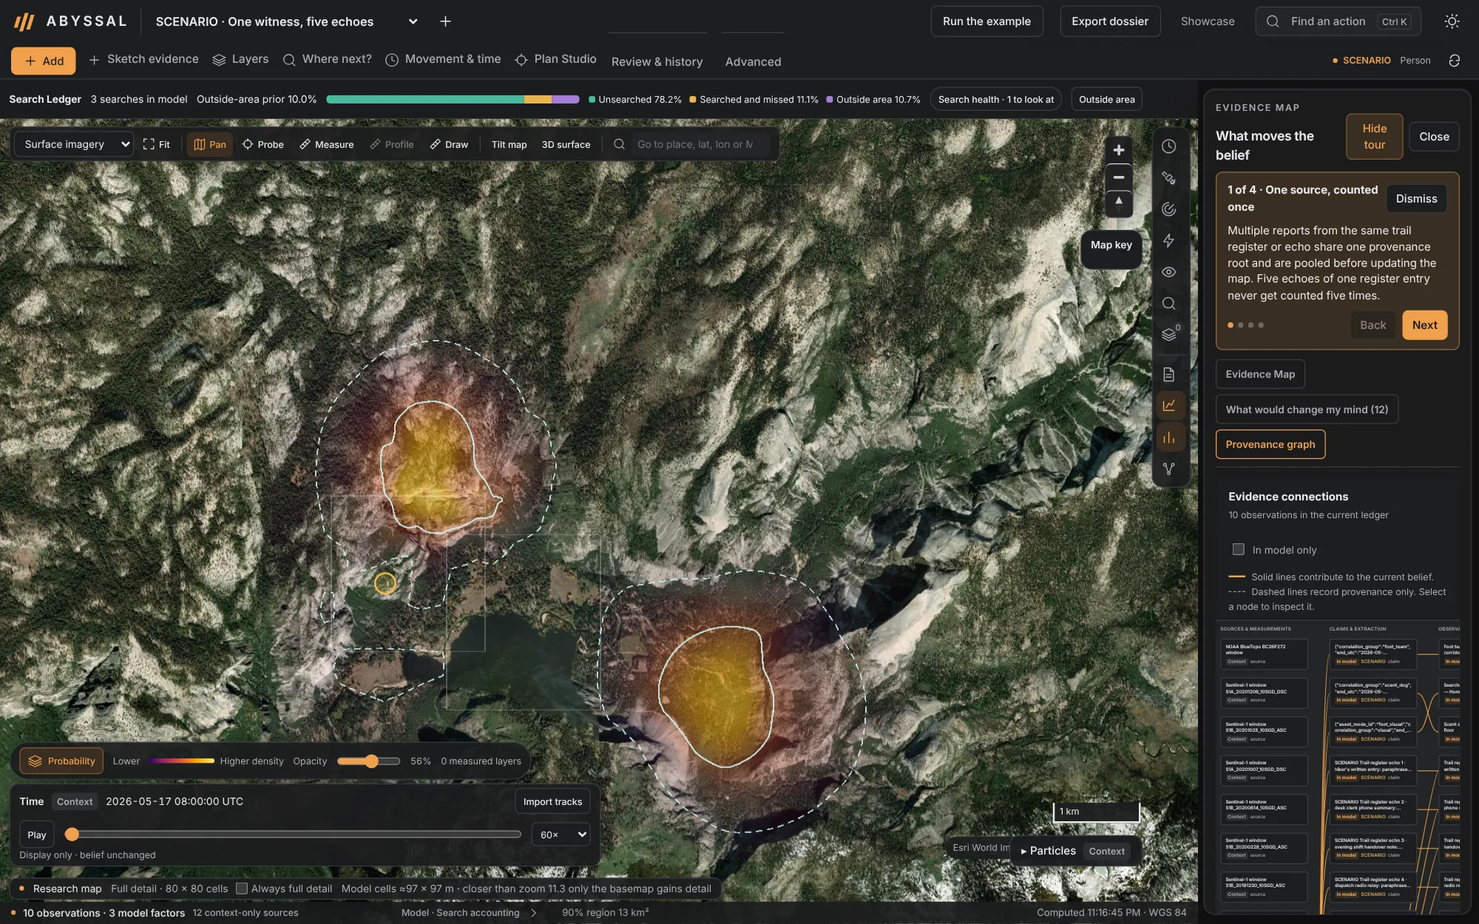
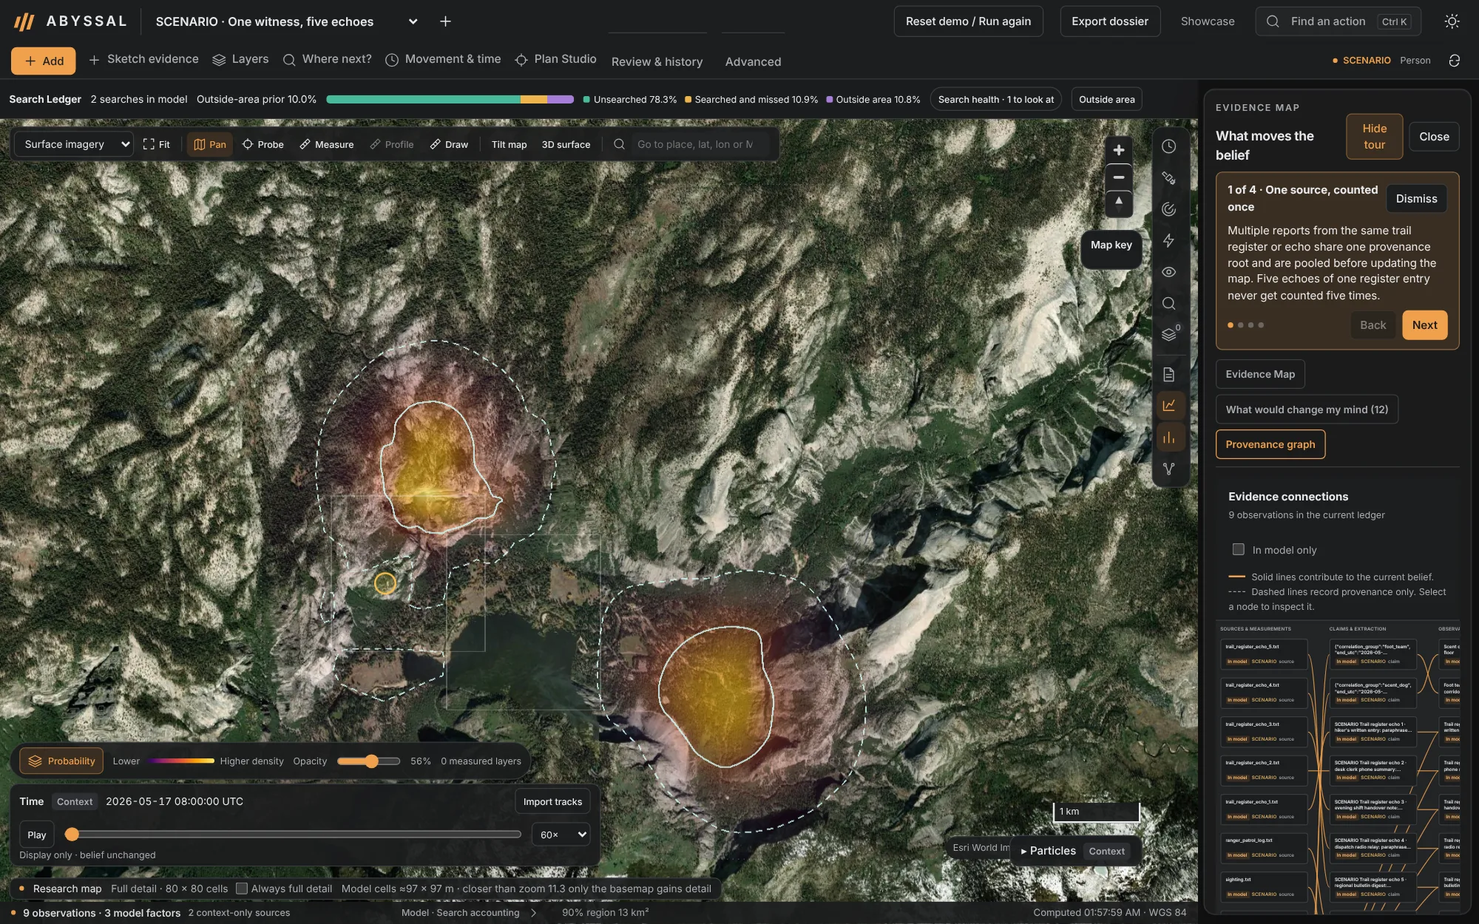
ABYSSAL showcase: proven on real data; new app home page; screenshots from a clean case store
- Hub: a "Proven on real data" section with the five measured results and the app's evidence page;
  the maturity ladder's real-data rung now reports them. Engines page: an "On real data" table.
- Home: the ABYSSAL card's evidence line says what was measured on real data.
- Screenshots: the new app home page (dark and light), the evidence page, and every workspace shot
  recaptured from a clean case store, so the land demo's archive and fusion graph no longer show
  radar and bathymetry windows fetched while testing marine engines. The sketch-evidence crop is now
  over real imagery.

Claude-Session: https://claude.ai/code/session_01MYDVWJmnsMXumzgm4hNe9F

diff --git a/abyssal/index.html b/abyssal/index.html
@@ -38,7 +38,7 @@
       <div class="kicker"><span class="dot"></span><span>A series in nine parts</span><span class="lv">tours · mathematics · physics · essays · 13 interactive labs</span></div>
       <h1>ABYSSAL: honest probability for finding what is lost</h1>
       <p class="dek">A local-first Bayesian workbench for searching for aircraft, ships and people: it keeps a probability map that cannot overclaim, explains every change in bits, says where to look next and what that is worth, and records who decided to trust each piece of evidence.</p>
-      <div class="meta"><span><b>22,155</b> words · <b>13</b> labs you can play with · every figure from the running software</span><span>Rory Millard · November 2026</span></div>
+      <div class="meta"><span><b>22,157</b> words · <b>13</b> labs you can play with · every figure from the running software</span><span>Rory Millard · November 2026</span></div>
       <div class="cta"><a class="btn primary" href="01-a-tour.html">Start with the tour →</a><a class="btn ghost" href="03-the-arithmetic-of-not-finding.html">Straight to the maths</a><a class="btn ghost" href="engines.html">Inside the machine</a><a class="btn ghost" href="#labs">Play with the labs</a></div>
       <figure class="figure-peek reveal"><img src="../assets/abyssal/demo-live.webp" alt="The ABYSSAL workspace over real terrain" fetchpriority="high"></figure>
     </div>
@@ -87,8 +87,24 @@
   <div class="rung ok"><span class="st">Tested</span><div><b>Planning and value</b><p>Optimal allocation against known optima (water-filling under exponential detection), expected value and stopping rules against hand-worked cases.</p></div><a href="05-where-next-and-when-to-stop.html">Part 5 →</a></div>
   <div class="rung ok"><span class="st">Tested</span><div><b>The interface</b><p>Browser journeys that drive the real app and assert exact numbers on screen, so that what you see is what was computed.</p></div><a href="01-a-tour.html">Part 1 →</a></div>
   <div class="rung cal"><span class="st">Calibrated</span><div><b>Fourteen signal engines</b><p>Each one scored against simulated answer keys: detection rate, false alarms per km², interval coverage, with Wilson and Poisson bounds. Simulation proves the mathematics, not a real sensor.</p></div><a href="engines.html#board">Board →</a></div>
-  <div class="rung real"><span class="st">First contact</span><div><b>Real data</b><p>Sentinel-1 radar off San Francisco; eight passes over the Santa Barbara Channel, where exactly two contacts are fixed in every pass, consistent with two oil platforms; the <i>Andrea Doria</i> in NOAA's survey bathymetry. Held-out backtest on AF447.</p></div><a href="engines.html#eng-persist">See it →</a></div>
+  <div class="rung real"><span class="st">Measured on real data</span><div><b>Five engines against independent truth</b><p>Radar wind against 11 NOAA buoys (RMSE 1.7 m/s over 152 passes); ships against real AIS (47 of 51 over 100 m detected); oil platforms against nautical charts (15 of 16, to within 33 m); seabed anomalies against charted wrecks (41 of 85, to within 9 m); and the ARA San Juan rebuilt from public facts. Held-out backtest on AF447.</p></div><a href="#proof">Results →</a></div>
   <div class="rung next"><span class="st">Not yet</span><div><b>A live search</b><p>No real operation has used it. That needs detectors calibrated on real sensors and practitioners on real or replayed cases; until then every probability of detection is labelled an analyst assumption.</p></div><a href="../contact.html">Try it →</a></div>
+</div>
+
+<div class="section-title" id="proof"><h2>Proven on real data</h2><span>the same engine code, scored against something it never saw</span></div>
+<div class="split reveal">
+  <div>
+    <div class="proofs">
+      <div><b>1.7 m/s</b><span>Wind from the radar vs <strong>11 NOAA buoys</strong>, 152 passes (r = 0.91)</span></div>
+      <div><b>47 / 51</b><span>Ships over 100 m found in the radar, checked against <strong>real AIS</strong></span></div>
+      <div><b>15 / 16</b><span>Oil platforms found in every pass, to within <strong>33 m</strong> of the chart</span></div>
+      <div><b>41 / 85</b><span>Charted wrecks found in NOAA bathymetry, to within <strong>9 m</strong></span></div>
+      <div><b>−34%</b><span>ARA San Juan: search area cut by the collapse-depth constraint, <strong>wreck kept</strong></span></div>
+    </div>
+    <p>Every number has receipts: the exact radar windows, buoy files, AIS days and chart records it came from, and a script that re-runs it. The limits are measured too: the ship detector raises too many unexplained echoes on rough seas, and half the charted wrecks are too low or buried to stand out of a 4 m grid.</p>
+    <p><a class="btn primary" href="engines.html#real">Inside the machine: the results →</a></p>
+  </div>
+  <figure class="shot"><img src="../assets/abyssal/evidence-real.webp" alt="ABYSSAL's evidence page: radar wind against buoy wind, and detection rate by ship length against real AIS" loading="lazy"><figcaption><b>The evidence page in the app.</b> Radar wind against buoy wind, one dot per pass, and detection rate by ship length against real AIS.</figcaption></figure>
 </div>
 
 <div class="section-title"><h2>Read it your way</h2><span>four paths through the series</span></div>

diff --git a/_series/index.html b/_series/index.html
@@ -44,8 +44,24 @@
   <div class="rung ok"><span class="st">Tested</span><div><b>Planning and value</b><p>Optimal allocation against known optima (water-filling under exponential detection), expected value and stopping rules against hand-worked cases.</p></div><a href="05-where-next-and-when-to-stop.html">Part 5 →</a></div>
   <div class="rung ok"><span class="st">Tested</span><div><b>The interface</b><p>Browser journeys that drive the real app and assert exact numbers on screen, so that what you see is what was computed.</p></div><a href="01-a-tour.html">Part 1 →</a></div>
   <div class="rung cal"><span class="st">Calibrated</span><div><b>Fourteen signal engines</b><p>Each one scored against simulated answer keys: detection rate, false alarms per km², interval coverage, with Wilson and Poisson bounds. Simulation proves the mathematics, not a real sensor.</p></div><a href="engines.html#board">Board →</a></div>
-  <div class="rung real"><span class="st">First contact</span><div><b>Real data</b><p>Sentinel-1 radar off San Francisco; eight passes over the Santa Barbara Channel, where exactly two contacts are fixed in every pass, consistent with two oil platforms; the <i>Andrea Doria</i> in NOAA's survey bathymetry. Held-out backtest on AF447.</p></div><a href="engines.html#eng-persist">See it →</a></div>
+  <div class="rung real"><span class="st">Measured on real data</span><div><b>Five engines against independent truth</b><p>Radar wind against 11 NOAA buoys (RMSE 1.7 m/s over 152 passes); ships against real AIS (47 of 51 over 100 m detected); oil platforms against nautical charts (15 of 16, to within 33 m); seabed anomalies against charted wrecks (41 of 85, to within 9 m); and the ARA San Juan rebuilt from public facts. Held-out backtest on AF447.</p></div><a href="#proof">Results →</a></div>
   <div class="rung next"><span class="st">Not yet</span><div><b>A live search</b><p>No real operation has used it. That needs detectors calibrated on real sensors and practitioners on real or replayed cases; until then every probability of detection is labelled an analyst assumption.</p></div><a href="../contact.html">Try it →</a></div>
+</div>
+
+<div class="section-title" id="proof"><h2>Proven on real data</h2><span>the same engine code, scored against something it never saw</span></div>
+<div class="split reveal">
+  <div>
+    <div class="proofs">
+      <div><b>1.7 m/s</b><span>Wind from the radar vs <strong>11 NOAA buoys</strong>, 152 passes (r = 0.91)</span></div>
+      <div><b>47 / 51</b><span>Ships over 100 m found in the radar, checked against <strong>real AIS</strong></span></div>
+      <div><b>15 / 16</b><span>Oil platforms found in every pass, to within <strong>33 m</strong> of the chart</span></div>
+      <div><b>41 / 85</b><span>Charted wrecks found in NOAA bathymetry, to within <strong>9 m</strong></span></div>
+      <div><b>−34%</b><span>ARA San Juan: search area cut by the collapse-depth constraint, <strong>wreck kept</strong></span></div>
+    </div>
+    <p>Every number has receipts: the exact radar windows, buoy files, AIS days and chart records it came from, and a script that re-runs it. The limits are measured too: the ship detector raises too many unexplained echoes on rough seas, and half the charted wrecks are too low or buried to stand out of a 4 m grid.</p>
+    <p><a class="btn primary" href="engines.html#real">Inside the machine: the results →</a></p>
+  </div>
+  <figure class="shot"><img src="../assets/abyssal/evidence-real.webp" alt="ABYSSAL's evidence page: radar wind against buoy wind, and detection rate by ship length against real AIS" loading="lazy"><figcaption><b>The evidence page in the app.</b> Radar wind against buoy wind, one dot per pass, and detection rate by ship length against real AIS.</figcaption></figure>
 </div>
 
 <div class="section-title"><h2>Read it your way</h2><span>four paths through the series</span></div>

diff --git a/index.html b/index.html
@@ -76,7 +76,7 @@
       <div><b data-count="14">14</b><small>physics-based signal engines in ABYSSAL</small></div>
       <div><b data-count="9">9</b><small>essays in the ABYSSAL series</small></div>
       <div><b data-count="13">13</b><small>interactive maths labs, running in the page</small></div>
-      <div><b data-count="22155">22,155</b><small>words on search, inference and sensing</small></div>
+      <div><b data-count="22157">22,157</b><small>words on search, inference and sensing</small></div>
     </div>
 
     <header class="sh"><span class="no">01</span><h2>Selected work</h2><a href="projects.html">All work →</a></header>
@@ -89,7 +89,7 @@
           <dt>Belief</dt><dd>Log-space Bayes over space and time. Empty searches count as evidence; five retellings of one sighting count once.</dd>
           <dt>Signals</dt><dd>Fourteen physics engines (radar, sonar, sound in the ocean, magnetics, drift) behind a single calibration gate.</dd>
           <dt>Decisions</dt><dd>Where to search next, what that is worth, and when to stop.</dd>
-          <dt>Evidence</dt><dd>Maths tested against known answers; engines calibrated on answer keys; backtested on a real loss. Not yet used in a live search.</dd>
+          <dt>Evidence</dt><dd>Measured on real data against buoys, AIS, nautical charts and a real wreck; maths tested against known answers. Not yet used in a live search.</dd>
         </dl>
         <div class="go"><a href="abyssal/index.html">Overview →</a><a href="abyssal/engines.html">Inside the machine</a><a href="abyssal/01-a-tour.html">The series</a></div>
       </div>
@@ -105,7 +105,7 @@
 
     <header class="sh"><span class="no">03</span><h2>Writing</h2><a href="writing.html">All writing →</a></header>
     <nav class="wl" aria-label="Selected writing">
-      <a href="abyssal/01-a-tour.html"><span class="k">Series · 9 parts</span><span class="t">ABYSSAL, from every side<small>Tours, derivations, physics and three historical cases, with 13 interactive labs running the real formulas.</small></span><span class="m">22,155 words</span></a>
+      <a href="abyssal/01-a-tour.html"><span class="k">Series · 9 parts</span><span class="t">ABYSSAL, from every side<small>Tours, derivations, physics and three historical cases, with 13 interactive labs running the real formulas.</small></span><span class="m">22,157 words</span></a>
       <a href="abyssal/engines.html"><span class="k">Feature</span><span class="t">Inside the machine<small>The whole system on one sheet, and fourteen signal engines with what each one measured against an answer key.</small></span><span class="m">14 engines</span></a>
       <a href="abyssal/03-the-arithmetic-of-not-finding.html"><span class="k">Essay · maths</span><span class="t">The arithmetic of not finding<small>Palomares, 1966: why an empty search is evidence, how much, and the share of belief that leaks outside the box.</small></span><span class="m">Part 3</span></a>
       <a href="notes/the-fifth-miss.html"><span class="k">Working note · 001</span><span class="t">The Fifth Miss<small>Five searches with the same sensor and nothing. How sure should you be? It depends on how the sensor fails.</small></span><span class="m">Interactive</span></a>

diff --git a/abyssal/engines.html b/abyssal/engines.html
@@ -269,6 +269,19 @@
   <figure><img src="../assets/abyssal/signal-dark-vessel-wake.webp" alt="A dark vessel with its wake, azimuth shift and heading" loading="lazy"><figcaption>A dark vessel's wake: heading, speed from the Kelvin wavelength, and the azimuth shift back to its true position.</figcaption></figure>
 </section>
 
+<div class="section-title" id="real"><h2>On real data</h2><span>independent truth, real archives, receipts for every input</span></div>
+<div class="board-wrap"><table class="board">
+  <thead><tr><th>Engine</th><th>Real data</th><th>Truth</th><th>Result</th></tr></thead>
+  <tbody>
+    <tr><td>Wind from radar</td><td>152 Sentinel-1 passes, California, 2017-2021</td><td>11 NOAA buoys, adjusted to 10 m</td><td class="n">RMSE 1.71 m/s, r 0.91; 1.49 m/s with the buoy's direction; under-reads above 10 m/s</td></tr>
+    <tr><td>Dark vessels</td><td>9 windows, 4 days, three US approaches</td><td>NOAA MarineCadastre AIS at image time</td><td class="n">≥100 m: 47/51; &lt;35 m: 37/54; 958 unexplained echoes in 5,464 km²</td></tr>
+    <tr><td>Persistence</td><td>8 passes over 3 platform fields</td><td>NOAA charted platforms</td><td class="n">15/16, median 33 m; Eva (near shore) missed</td></tr>
+    <tr><td>Seabed</td><td>85 NOAA BlueTopo windows, 12 regions</td><td>Survey-located chart wrecks</td><td class="n">41/85, median 9 m</td></tr>
+    <tr><td>Lost-submarine drill</td><td>ARA San Juan, public facts + ETOPO 2022</td><td>The wreck, found at 907 m</td><td class="n">95% area −34% (0.5° bearing error), wreck inside the 50% region</td></tr>
+  </tbody>
+</table></div>
+<p class="lede-block" style="margin-top:0">The full results, plots and receipts are in the app at <code>/?evidence=1</code> and in <code>docs/validation/REAL_DATA.md</code>. The scenario calibrations below still matter: they test the mathematics with a known answer. The real-data results test the sensor, the archive and the world.</p>
+
 <div class="section-title" id="board"><h2>The calibration board</h2><span>what each engine measured, and on what</span></div>
 <div class="board-wrap">
 <table class="board">
@@ -298,7 +311,7 @@
 <div class="cards3">
   <div class="card"><span class="k">Read next</span><h3><a href="06-signals-from-the-deep.html">Signals from the deep</a></h3><p>The first three engines, the scope line, and why a submerged wake is invisible to radar.</p></div>
   <div class="card"><span class="k">Read next</span><h3><a href="09-building-it-honestly.html">Building it honestly</a></h3><p>The gate, the receipts and the calibration discipline that this page rests on.</p></div>
-  <div class="card"><span class="k">The series</span><h3><a href="index.html">All nine parts and the labs</a></h3><p>22,155 words and 13 interactive labs, from the tour to the arithmetic of not finding.</p></div>
+  <div class="card"><span class="k">The series</span><h3><a href="index.html">All nine parts and the labs</a></h3><p>22,157 words and 13 interactive labs, from the tour to the arithmetic of not finding.</p></div>
 </div>
 
   </main>

diff --git a/abyssal/01-a-tour.html b/abyssal/01-a-tour.html
@@ -40,7 +40,7 @@
       <div class="kicker"><span class="dot"></span><span>ABYSSAL · Part 1 of 9</span><span class="lv">Showcase · walkthrough</span></div>
       <h1>Finding what is lost: a tour of ABYSSAL</h1>
       <p class="dek">A guided walk through a Bayesian search workbench: what you see in the first ten seconds, what each panel is for, and why the map never moves unless a person says so.</p>
-      <div class="meta"><span><b>14 min</b> read · 3,131 words</span><span>Rory Millard · November 2026</span></div>
+      <div class="meta"><span><b>14 min</b> read · 3,133 words</span><span>Rory Millard · November 2026</span></div>
       
       <figure class="figure-peek reveal"><img src="../assets/abyssal/demo-live.webp" alt="The ABYSSAL workspace showing a probability map over a mountain valley, with searched areas and contours" fetchpriority="high"></figure>
     </div>
@@ -64,7 +64,7 @@
 
 <p>The landing page offers one primary action, <em>Start a new search</em>, and three demonstrations you can open with a single click. I rebuilt this page several times. Earlier versions listed every capability; strangers read the list, felt they had understood the product, and never opened it. Now the page does one thing: put a real map in front of you as fast as possible.</p>
 
-<figure class="shot wide reveal"><img src="../assets/abyssal/landing-dark.webp" alt="ABYSSAL landing page with the Start a new search button and three demo links" loading="lazy"><figcaption><b>The landing page.</b> One primary action and three demos: a fictional land search, the "one witness, five echoes" Evidence Map demo, and a multi-target watchlist of twelve invented vessels. Below are reference workspaces for AF447, MH370 and the <em>Merchant Royal</em>.</figcaption></figure>
+<figure class="shot wide reveal"><img src="../assets/abyssal/landing-dark.webp" alt="ABYSSAL home page: Start a new search, three one-click demos and the real-data results" loading="lazy"><figcaption><b>The home page.</b> One primary action, three one-click demos (a fictional land search, the "one witness, five echoes" Evidence Map and a watchlist of twelve invented vessels), and the engines' results on real data, each a link to how it was measured.</figcaption></figure>
 
 <p>Click <strong>See the Evidence Map: one witness, five echoes</strong>. In about four seconds you are looking at a probability map over real elevation data from a mountain valley. The case is fictional and labelled <code>SCENARIO</code> everywhere it appears, which is the first rule of the system: invented data can never leak into, or be mistaken for, a real case.</p>
 

diff --git a/_pages/abyssal/engines.html b/_pages/abyssal/engines.html
@@ -222,6 +222,19 @@
   <figure><img src="../assets/abyssal/signal-dark-vessel-wake.webp" alt="A dark vessel with its wake, azimuth shift and heading" loading="lazy"><figcaption>A dark vessel's wake: heading, speed from the Kelvin wavelength, and the azimuth shift back to its true position.</figcaption></figure>
 </section>
 
+<div class="section-title" id="real"><h2>On real data</h2><span>independent truth, real archives, receipts for every input</span></div>
+<div class="board-wrap"><table class="board">
+  <thead><tr><th>Engine</th><th>Real data</th><th>Truth</th><th>Result</th></tr></thead>
+  <tbody>
+    <tr><td>Wind from radar</td><td>152 Sentinel-1 passes, California, 2017-2021</td><td>11 NOAA buoys, adjusted to 10 m</td><td class="n">RMSE 1.71 m/s, r 0.91; 1.49 m/s with the buoy's direction; under-reads above 10 m/s</td></tr>
+    <tr><td>Dark vessels</td><td>9 windows, 4 days, three US approaches</td><td>NOAA MarineCadastre AIS at image time</td><td class="n">≥100 m: 47/51; &lt;35 m: 37/54; 958 unexplained echoes in 5,464 km²</td></tr>
+    <tr><td>Persistence</td><td>8 passes over 3 platform fields</td><td>NOAA charted platforms</td><td class="n">15/16, median 33 m; Eva (near shore) missed</td></tr>
+    <tr><td>Seabed</td><td>85 NOAA BlueTopo windows, 12 regions</td><td>Survey-located chart wrecks</td><td class="n">41/85, median 9 m</td></tr>
+    <tr><td>Lost-submarine drill</td><td>ARA San Juan, public facts + ETOPO 2022</td><td>The wreck, found at 907 m</td><td class="n">95% area −34% (0.5° bearing error), wreck inside the 50% region</td></tr>
+  </tbody>
+</table></div>
+<p class="lede-block" style="margin-top:0">The full results, plots and receipts are in the app at <code>/?evidence=1</code> and in <code>docs/validation/REAL_DATA.md</code>. The scenario calibrations below still matter: they test the mathematics with a known answer. The real-data results test the sensor, the archive and the world.</p>
+
 <div class="section-title" id="board"><h2>The calibration board</h2><span>what each engine measured, and on what</span></div>
 <div class="board-wrap">
 <table class="board">

diff --git a/_series/01-a-tour.html b/_series/01-a-tour.html
@@ -16,7 +16,7 @@
 
 <p>The landing page offers one primary action, <em>Start a new search</em>, and three demonstrations you can open with a single click. I rebuilt this page several times. Earlier versions listed every capability; strangers read the list, felt they had understood the product, and never opened it. Now the page does one thing: put a real map in front of you as fast as possible.</p>
 
-<figure class="shot wide reveal"><img src="../assets/abyssal/landing-dark.webp" alt="ABYSSAL landing page with the Start a new search button and three demo links" loading="lazy"><figcaption><b>The landing page.</b> One primary action and three demos: a fictional land search, the "one witness, five echoes" Evidence Map demo, and a multi-target watchlist of twelve invented vessels. Below are reference workspaces for AF447, MH370 and the <em>Merchant Royal</em>.</figcaption></figure>
+<figure class="shot wide reveal"><img src="../assets/abyssal/landing-dark.webp" alt="ABYSSAL home page: Start a new search, three one-click demos and the real-data results" loading="lazy"><figcaption><b>The home page.</b> One primary action, three one-click demos (a fictional land search, the "one witness, five echoes" Evidence Map and a watchlist of twelve invented vessels), and the engines' results on real data, each a link to how it was measured.</figcaption></figure>
 
 <p>Click <strong>See the Evidence Map: one witness, five echoes</strong>. In about four seconds you are looking at a probability map over real elevation data from a mountain valley. The case is fictional and labelled <code>SCENARIO</code> everywhere it appears, which is the first rule of the system: invented data can never leak into, or be mistaken for, a real case.</p>
 

diff --git a/_pages/index.html b/_pages/index.html
@@ -56,7 +56,7 @@
           <dt>Belief</dt><dd>Log-space Bayes over space and time. Empty searches count as evidence; five retellings of one sighting count once.</dd>
           <dt>Signals</dt><dd>Fourteen physics engines (radar, sonar, sound in the ocean, magnetics, drift) behind a single calibration gate.</dd>
           <dt>Decisions</dt><dd>Where to search next, what that is worth, and when to stop.</dd>
-          <dt>Evidence</dt><dd>Maths tested against known answers; engines calibrated on answer keys; backtested on a real loss. Not yet used in a live search.</dd>
+          <dt>Evidence</dt><dd>Measured on real data against buoys, AIS, nautical charts and a real wreck; maths tested against known answers. Not yet used in a live search.</dd>
         </dl>
         <div class="go"><a href="abyssal/index.html">Overview →</a><a href="abyssal/engines.html">Inside the machine</a><a href="abyssal/01-a-tour.html">The series</a></div>
       </div>

diff --git a/assets/series.css b/assets/series.css
@@ -615,3 +615,9 @@ html.abyssal .section-title h2::before { content: ""; display: inline-block; wid
 .feature > * { min-width: 0; }
 .eq, .feature .eq { max-width: 100%; overflow-x: auto; overflow-y: hidden; }
 .katex-display { overflow-x: auto; overflow-y: hidden; padding: 2px 0; }
+/* proven on real data: five numbers */
+.proofs { display: grid; grid-template-columns: repeat(auto-fit, minmax(150px, 1fr)); gap: 10px; margin: 0 0 18px; font-family: var(--sans); }
+.proofs div { border: 1px solid var(--line); border-radius: 14px; padding: 14px 14px 12px; background: var(--bg-raised); }
+.proofs b { display: block; font-family: var(--serif); font-weight: 500; font-size: 30px; line-height: 1; color: var(--accent); letter-spacing: -0.02em; }
+.proofs span { display: block; font-size: 12.5px; line-height: 1.45; color: var(--ink-2); margin-top: 8px; }
+.proofs strong { color: var(--ink); }

diff --git a/writing.html b/writing.html
@@ -40,7 +40,7 @@
       <div class="label">Writing</div>
       <h1>Writing</h1>
       <p class="dek">Essays, derivations and interactive models. The maths is written out in full and every lab runs in the page.</p>
-      <div class="meta"><span><b>22,155</b> words in the ABYSSAL series</span><span><b>13</b> interactive labs</span></div>
+      <div class="meta"><span><b>22,157</b> words in the ABYSSAL series</span><span><b>13</b> interactive labs</span></div>
       
     </div>
   </section>
